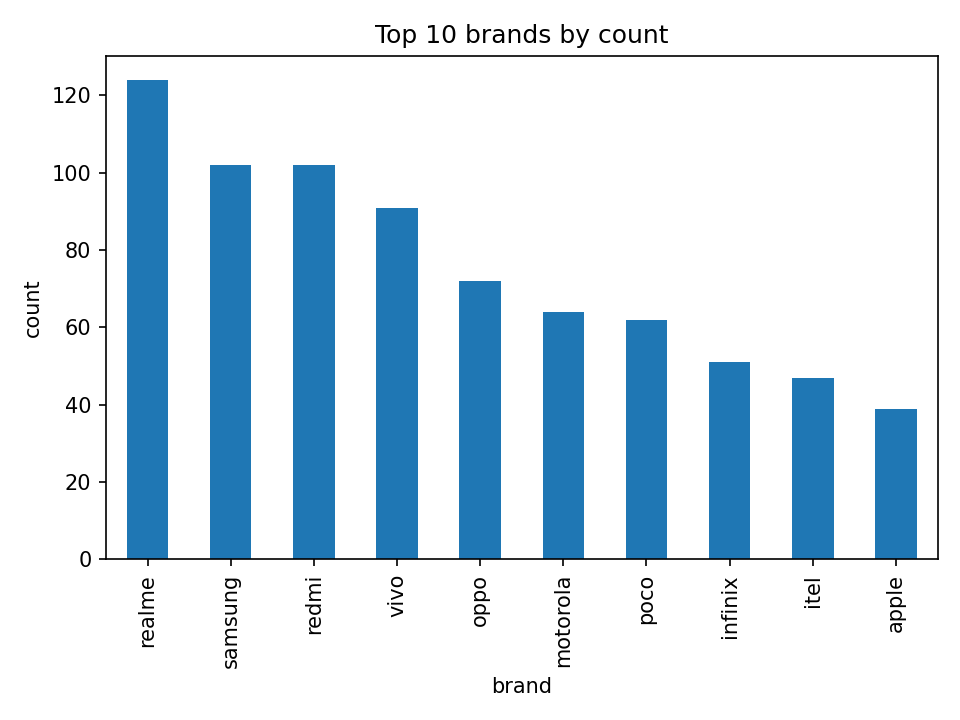
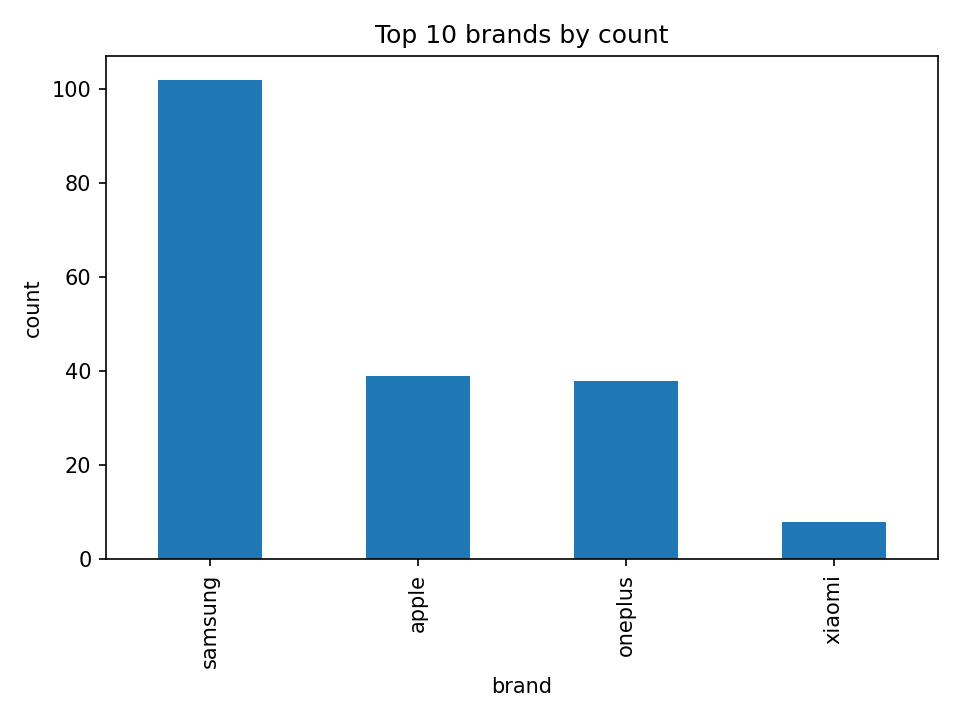
Ingestion+EDA:Update

diff --git a/scripts/01_ingest_clean_sql.py b/scripts/01_ingest_clean_sql.py
@@ -115,9 +115,18 @@ if __name__ == "__main__":
     else:
         clean = clean.withColumn("brand", F.lit("unknown"))
 
-    # ---- Ratings / Reviews: strip words and keep digits ----
+    # ---- Ratings / Reviews ----
+    # 1) Create ONE numeric `ratings` column (double) from any rating-like column.
     if rating_col:
-        clean = clean.withColumn("ratings", only_digits_to_long(rating_col, "ratings"))
+        s = F.coalesce(F.col(rating_col).cast("string"), F.lit(""))
+        s = F.regexp_extract(s, r"(\d[\d,\.]*)", 1)     # "4,278 Ratings" -> "4,278" ; "4.5 out of 5" -> "4.5"
+        s = F.regexp_replace(s, ",", "")
+        clean = clean.withColumn("ratings", F.when(F.length(s) > 0, s.cast("double")).otherwise(F.lit(None).cast("double")))
+        # 2) Drop any original stringy variant if its name differs from "ratings"
+        if rating_col != "ratings":
+            clean = clean.drop(rating_col)
+
+    # Reviews (count), keep as integer-like if present
     if reviews_col:
         clean = clean.withColumn("reviews", only_digits_to_long(reviews_col, "reviews"))
 
@@ -172,7 +181,6 @@ if __name__ == "__main__":
               .csv(csv_dir))
         print(f"[spark] Wrote CSV -> {csv_dir}")
     except Py4JJavaError as e:
-        # Be robust: check both java_exception and full string for the Windows native IO bug.
         emsg = (str(getattr(e, "java_exception", "")) or "") + " " + str(e)
         if ("UnsatisfiedLinkError" in emsg) or ("NativeIO$Windows.access0" in emsg):
             out_file = Path(args.output) / "clean.csv"
@@ -181,7 +189,6 @@ if __name__ == "__main__":
         else:
             raise
     except Exception as e:
-        # Last-resort catch: still try fallback if the same Windows signature appears.
         emsg = str(e)
         if ("UnsatisfiedLinkError" in emsg) or ("NativeIO$Windows.access0" in emsg):
             out_file = Path(args.output) / "clean.csv"

diff --git a/reports/EDA_SUMMARY.md b/reports/EDA_SUMMARY.md
@@ -1,5 +1,5 @@
 # EDA Summary
-- Rows: **979**  |  Columns: **18**
+- Rows: **187**  |  Columns: **18**
 - Output tables: `reports\tables`
 - Output images: `reports\img`
 
